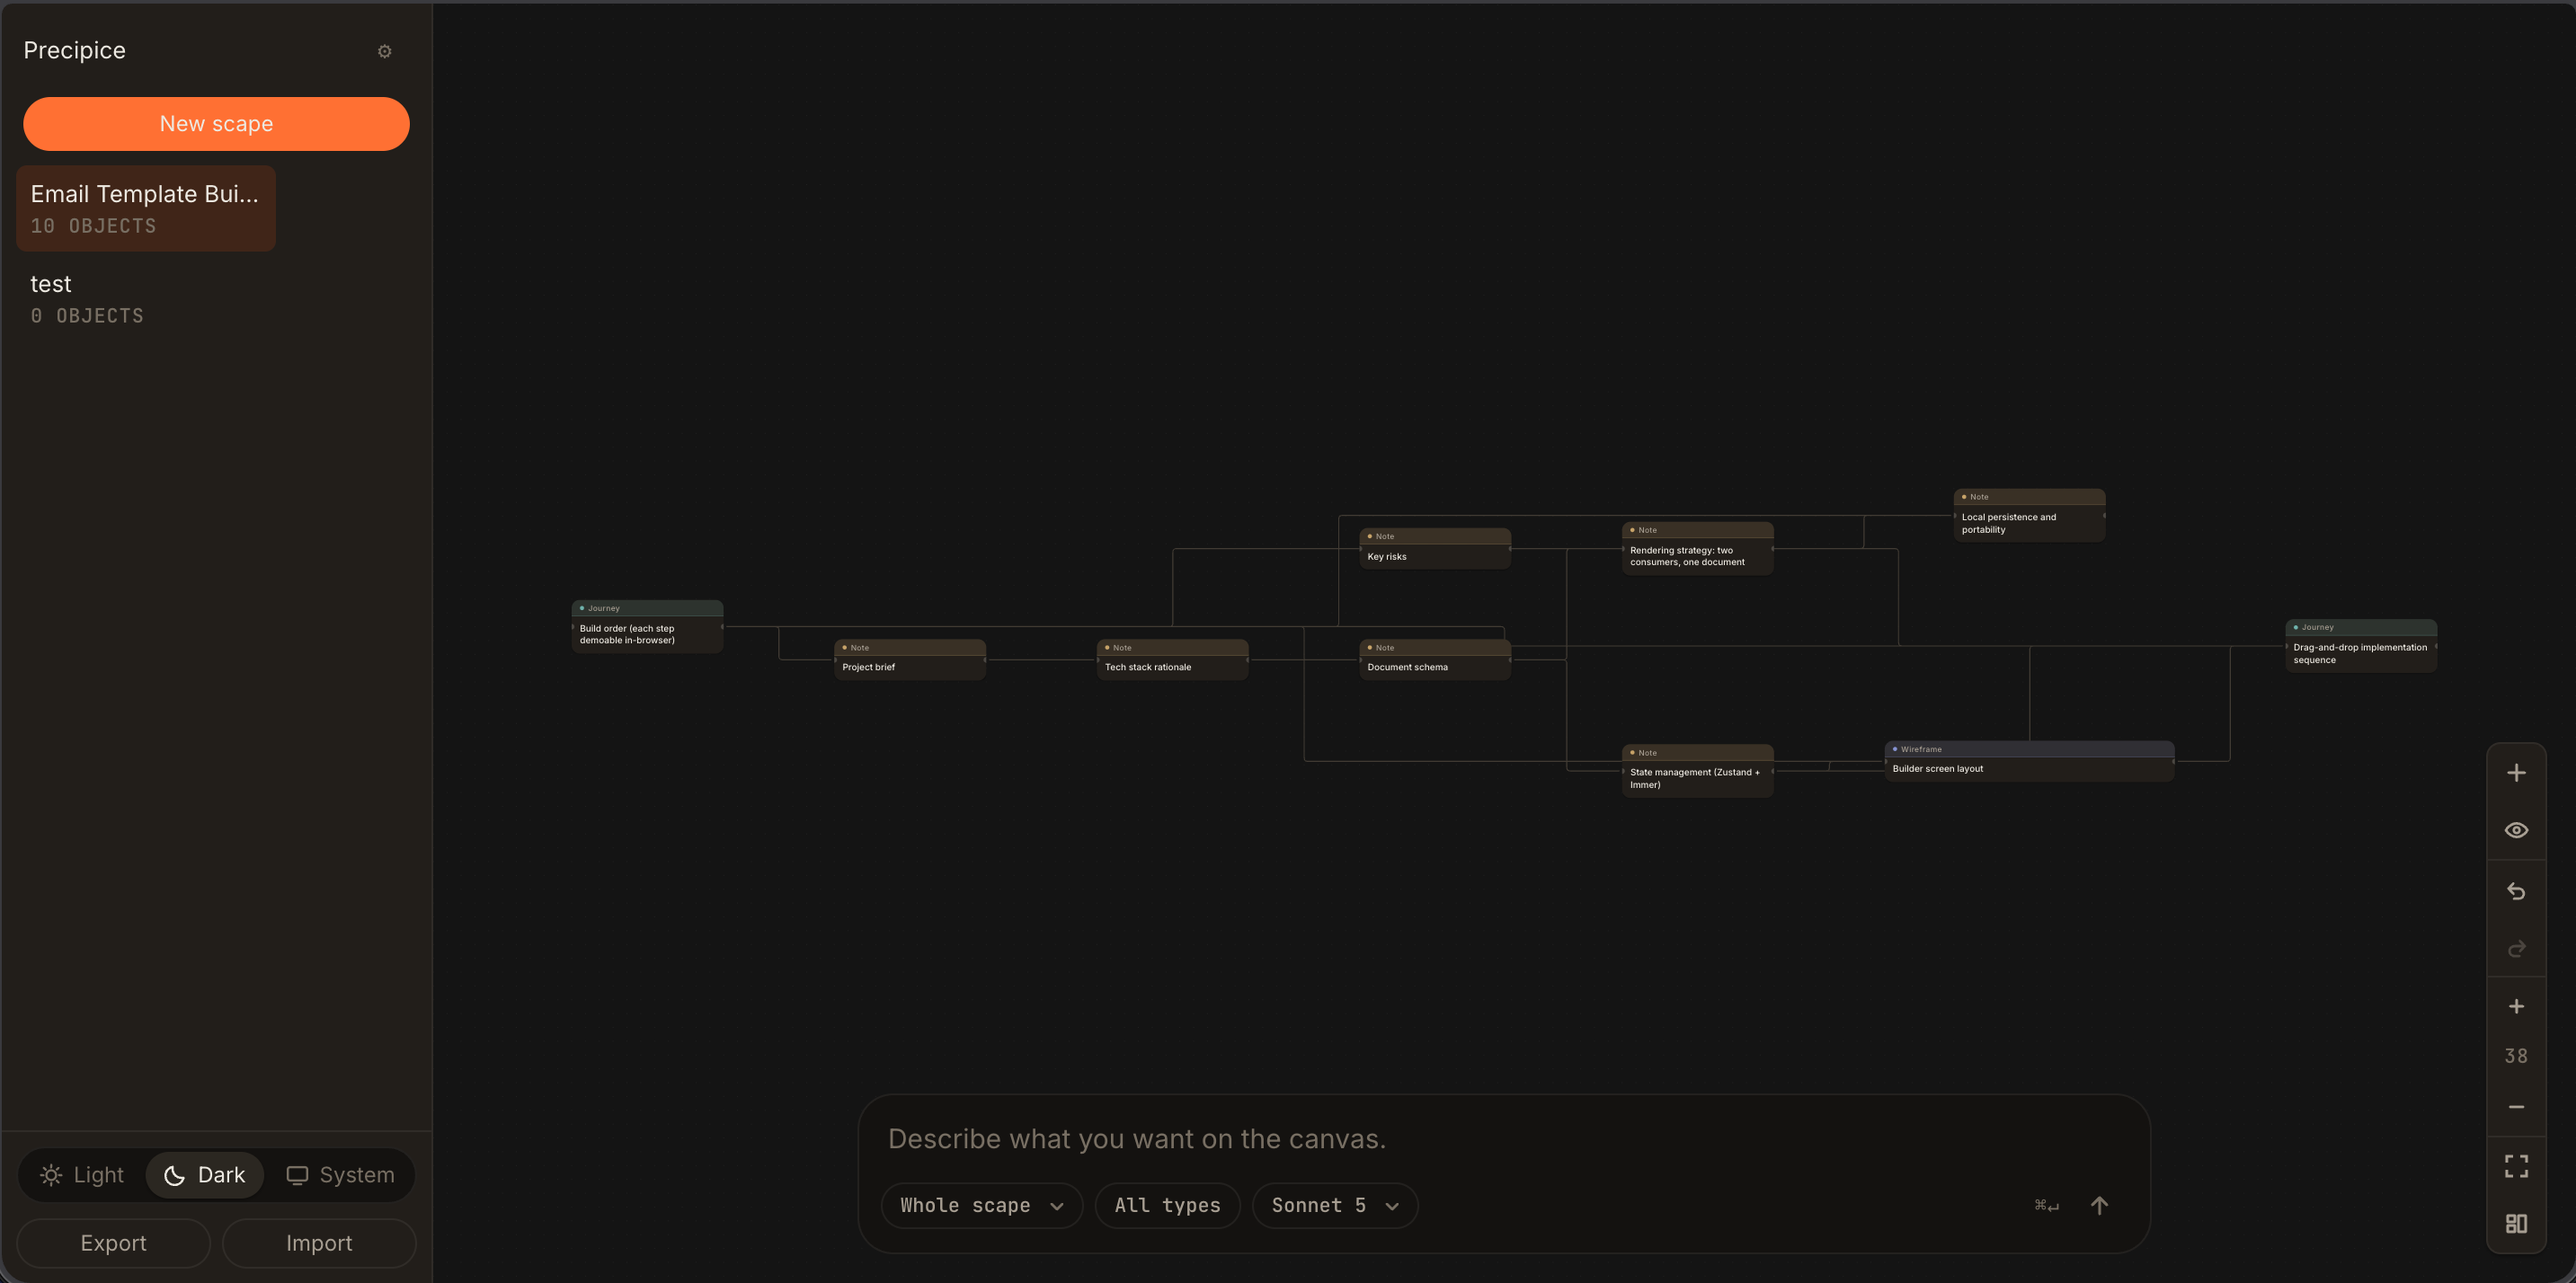
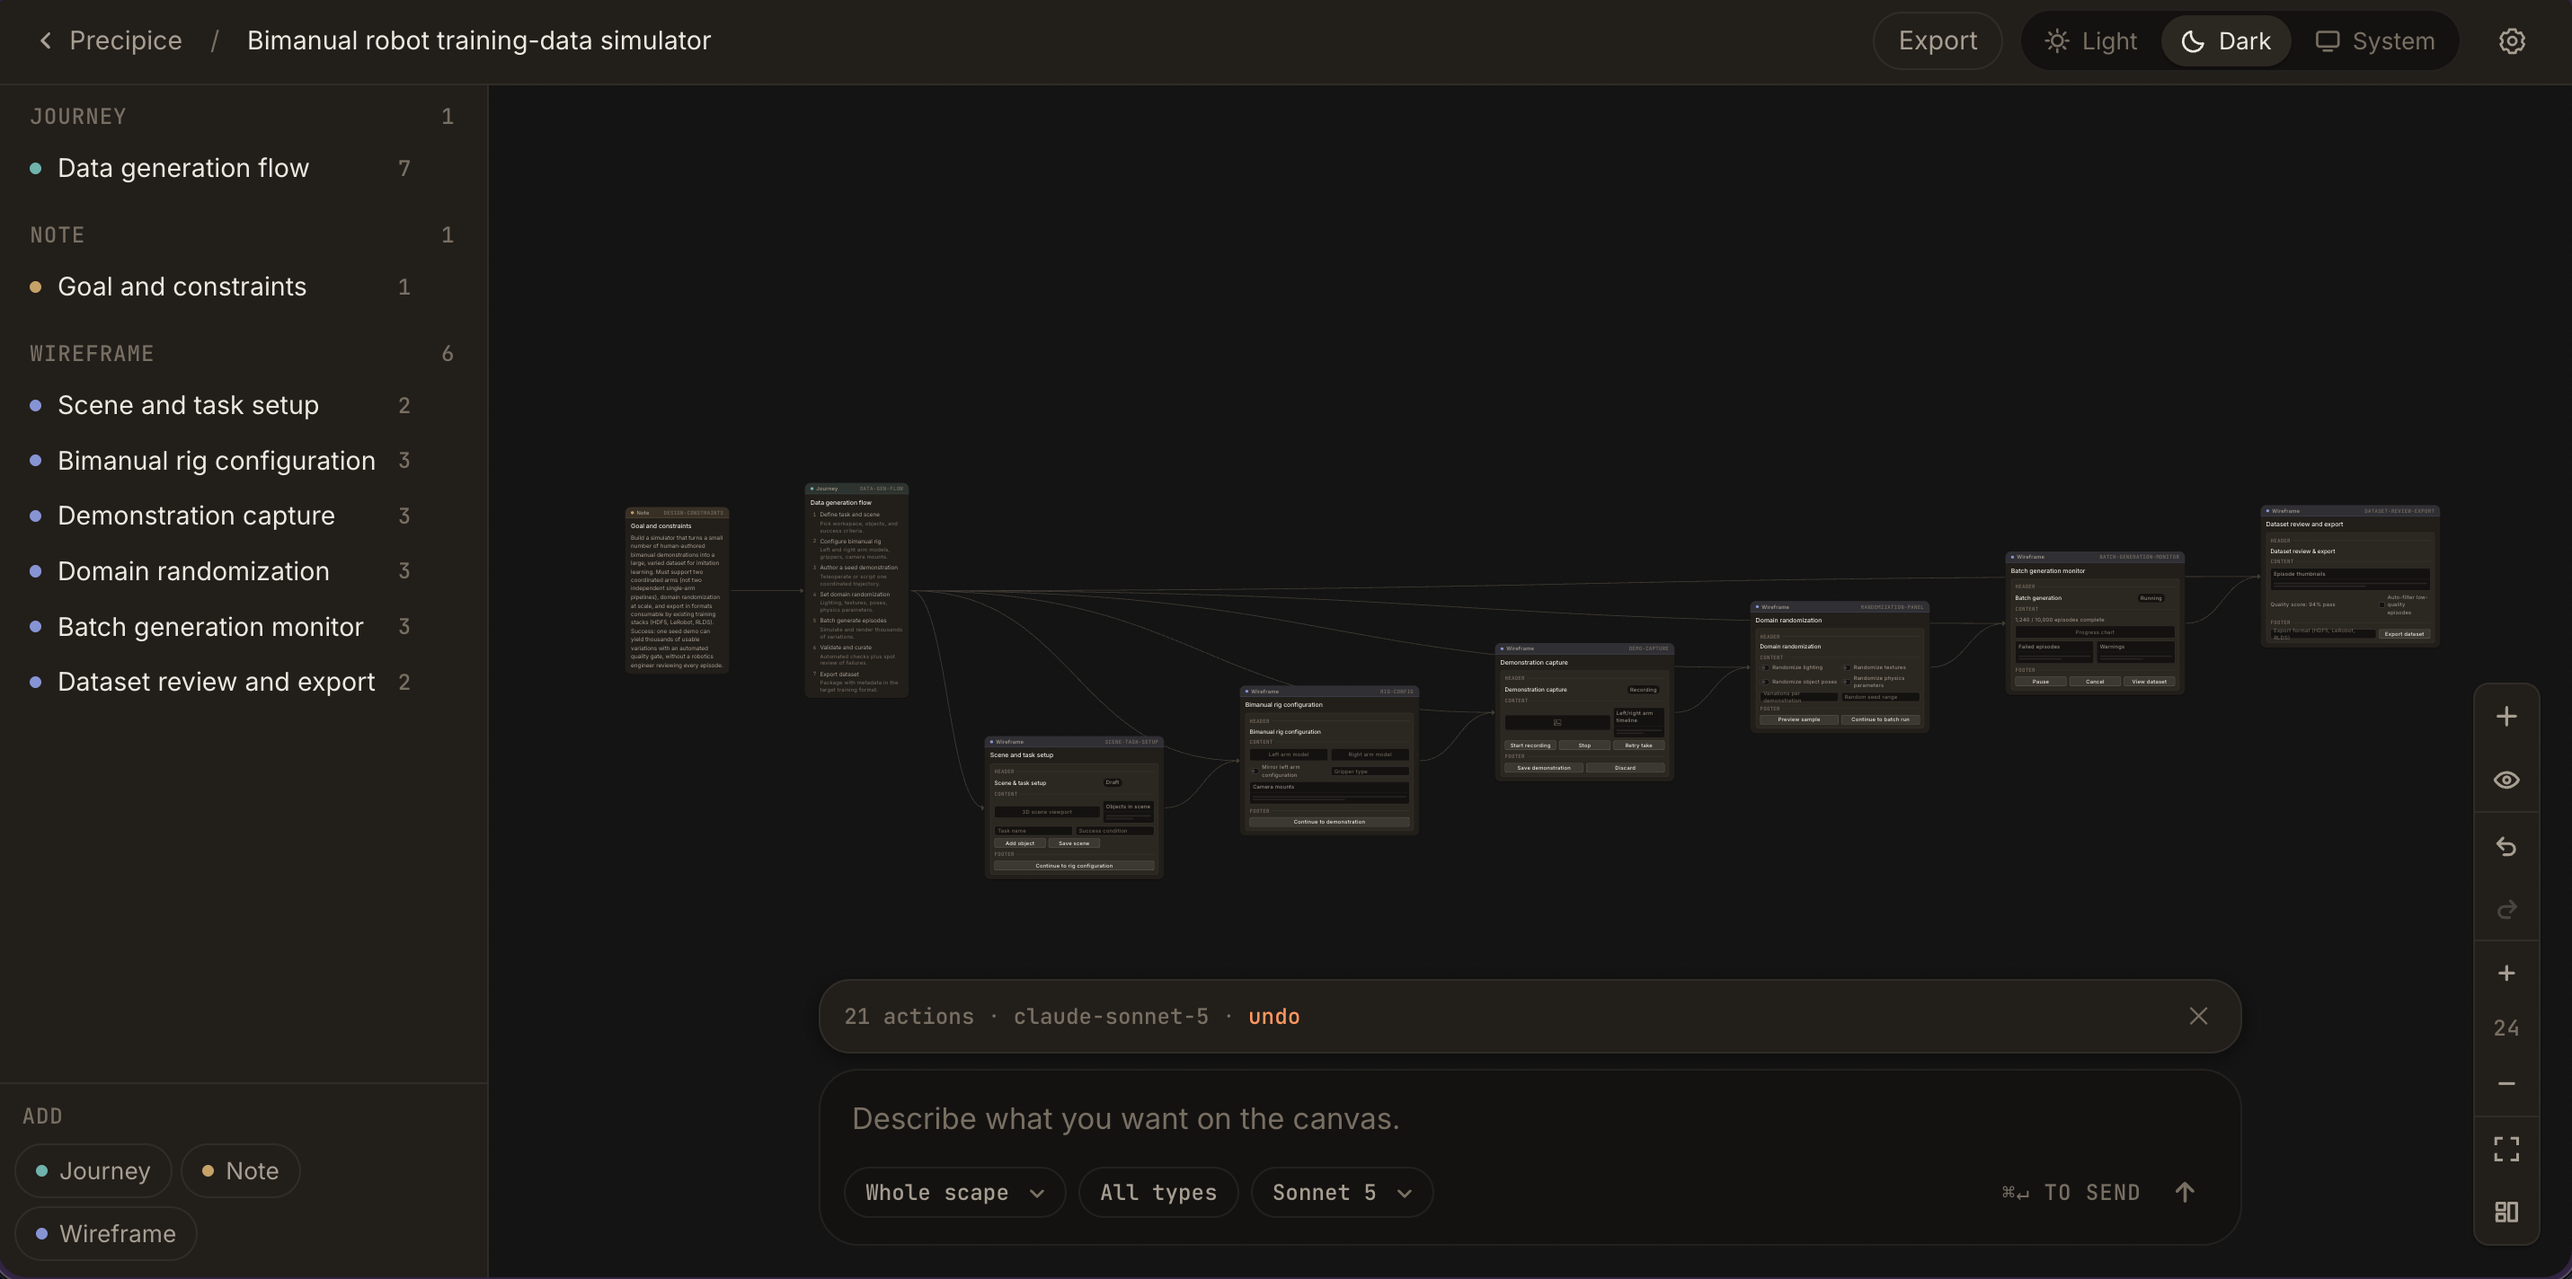
Refresh README screenshots and changelog

diff --git a/README.md b/README.md
@@ -16,10 +16,10 @@ Open the hosted app at **[precipice.pages.dev](https://precipice.pages.dev)**.
 For a first look:
 
 1. Open the link in a modern browser.
-2. Choose **New scape** in the sidebar, or open the example scape if it is already present.
+2. Choose a starter such as **Blank**, **Journey map**, **Mind map**, or **Screens**, or open an existing scape from the home page.
 3. Use the canvas controls to pan, zoom, select objects, and show or hide relationship lines.
 4. Select a Wireframe object to inspect its grid, elements, labels, widths, and alignment controls.
-5. Switch between Light, Dark, and System themes from the lower-left theme control.
+5. Switch between Light, Dark, and System themes from the top-right theme control.
 
 The hosted version stores scapes locally in your browser. It is not a shared
 cloud workspace, so exporting a `.scape` file is the safest way to move work
@@ -40,14 +40,18 @@ shared key behind a public endpoint is a shared key anyone can spend.
 
 ## Screenshots
 
-### Workspace
+### Home and generation
 
-The main workspace begins with a prompt surface and a scape sidebar. Both themes
-are supported.
+The home surface combines prompt-driven creation, starter scapes, imports, theme
+selection, settings, and locally saved scapes.
 
-![Precipice workspace in dark mode](docs/screenshots/workspace-dark.png)
+![Precipice home in dark mode](docs/screenshots/home-dark.png)
 
-![Precipice workspace in light mode](docs/screenshots/workspace-light.png)
+![Empty canvas in dark mode](docs/screenshots/canvas-empty-dark.png)
+
+![Generation thinking state](docs/screenshots/generation-thinking-dark.png)
+
+![Generation action stream](docs/screenshots/generation-actions-dark.png)
 
 ### Canvas
 
@@ -57,26 +61,17 @@ The canvas connects notes, journeys, and wireframes into a navigable product map
 
 ![Precipice canvas in light mode](docs/screenshots/canvas-light-latest.png)
 
-![Wireframe and connected canvas in light mode](docs/screenshots/wireframe-canvas-light.png)
+![Connection creation with a retained dotted line](docs/screenshots/connection-create-dark.png)
 
-![Wireframe and connected canvas in dark mode](docs/screenshots/wireframe-canvas-dark.png)
 
 ### Inspectors and controls
 
 Inspect and edit journey steps or wireframe elements without leaving the canvas.
 Filters and line controls keep larger scapes readable.
 
-![Journey inspector](docs/screenshots/journey-inspector-dark.png)
-
 ![Wireframe inspector](docs/screenshots/wireframe-inspector-dark.png)
 
-![Wireframe controls](docs/screenshots/wireframe-controls-dark.png)
-
-![Object type filter](docs/screenshots/type-filter-dark.png)
-
-![Model selector](docs/screenshots/model-selector-dark.png)
-
-![Relationship line filter](docs/screenshots/line-filter-dark.png)
+![Wireframe inspector with element editing](docs/screenshots/wireframe-inspector-panel-dark.png)
 
 ### Development surfaces
 

diff --git a/CHANGELOG.md b/CHANGELOG.md
@@ -14,6 +14,10 @@ milestone is published.
 - Generation now requires your own Anthropic API key. The hosted Worker no longer
   falls back to a server-side key, so leaving the field blank prompts for a key
   instead of silently generating on a shared account.
+- Refreshed the public README screenshots with the current home, generation,
+  canvas, connection, and wireframe-inspector experiences.
+- Updated the hosted-app instructions to match the starter-based home flow and
+  top-right theme controls.
 
 ### Security
 
